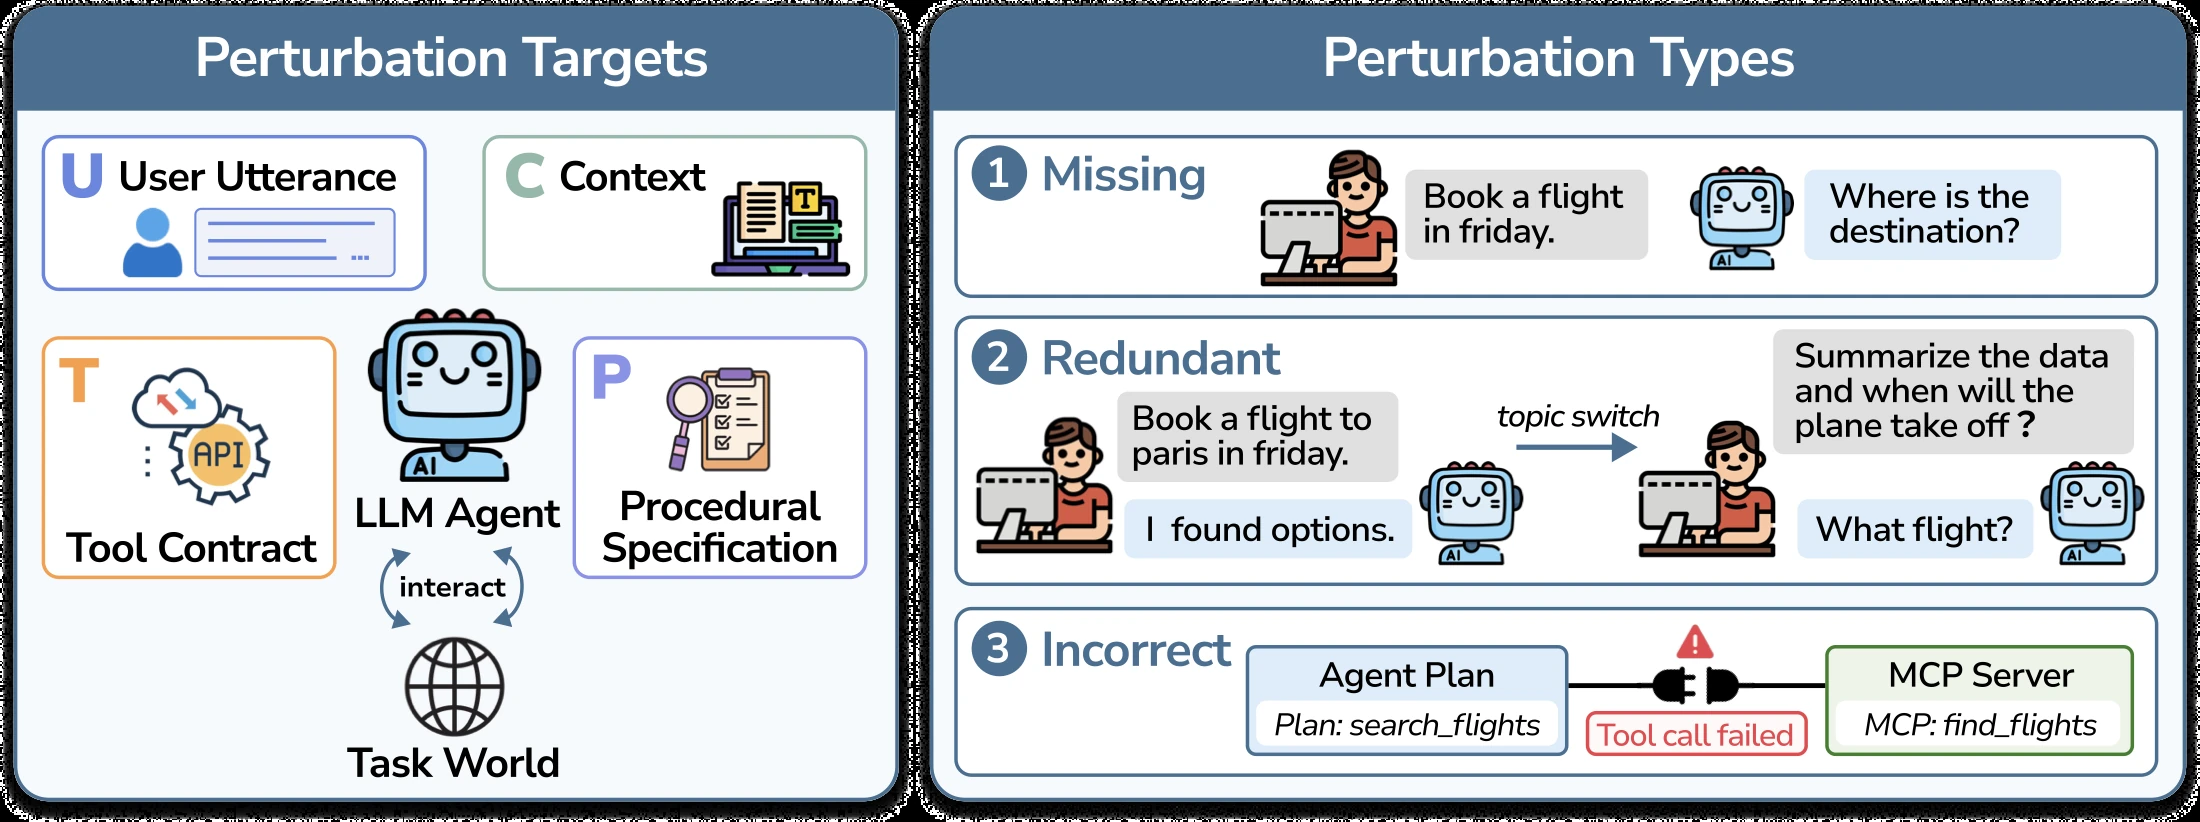
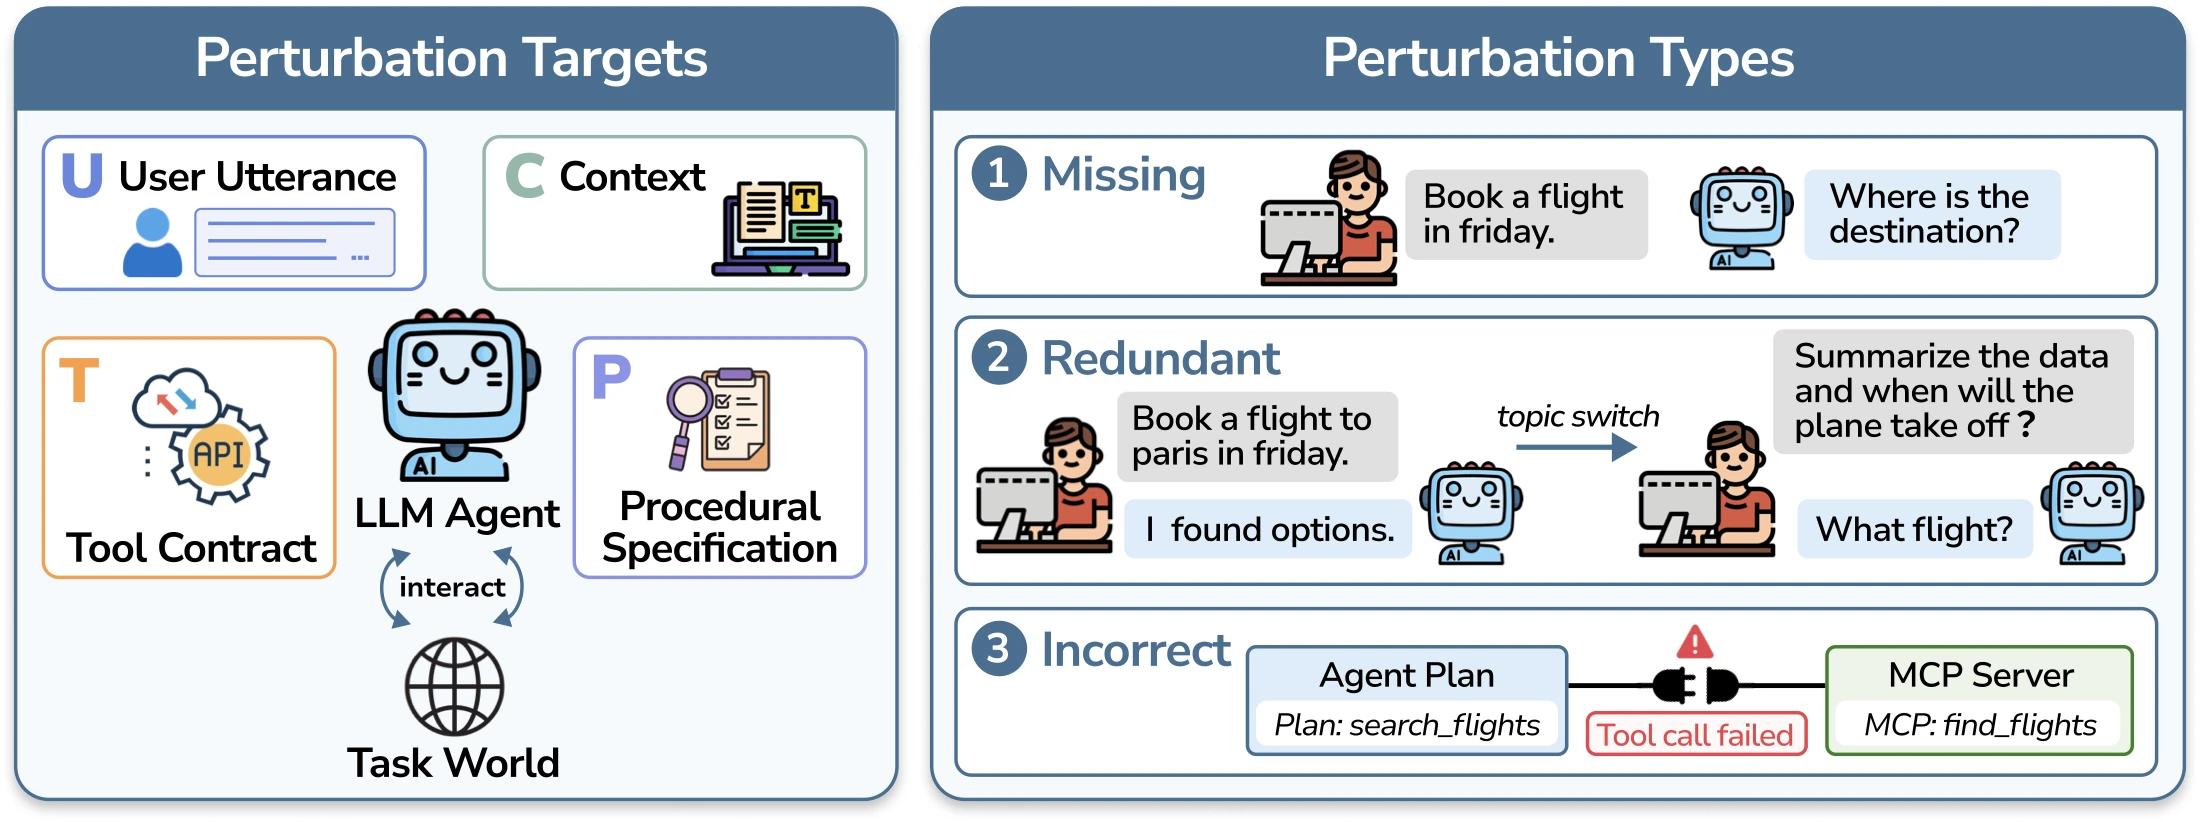
Use original figures for agentic papers

Changed region(s): [[0.0, 0.0, 1.0, 1.0]]

diff --git a/_pages/about.md b/_pages/about.md
@@ -615,8 +615,8 @@ My work has been published at venues including **NeurIPS 2026**, **ICML 2026** (
 
   <article class="publication-card">
     <figure class="publication-card__media">
-      <img src="{{ '/static/publication-figures/bridging-agentic.webp' | relative_url }}" alt="Evaluation pipeline connecting foundational capability profiles with agentic operations and deployment gaps" loading="lazy">
-      <figcaption>Study design. Foundational capability profiles are mapped to controlled agentic operations, deployment gaps, and long-horizon validation.</figcaption>
+      <img src="{{ '/static/publication-figures/bridging-agentic.webp' | relative_url }}" alt="Framework linking foundational capability profiles, agentic operation profiles, and task outcomes" loading="lazy">
+      <figcaption>Framework overview. Foundational capability profiles are linked to agentic operation profiles and task outcomes.</figcaption>
     </figure>
     <div class="publication-card__body">
       <div class="publication-card__tags">
@@ -625,7 +625,7 @@ My work has been published at venues including **NeurIPS 2026**, **ICML 2026** (
       </div>
       <h3>Bridging Foundational and Agentic Capabilities of LLMs</h3>
       <p class="publication-card__authors">Wei Guo, <strong>Yuanjian Xu</strong>, et al.</p>
-      <p class="publication-card__summary">We profile foundational capabilities and controlled agentic operations separately, then measure where models fail to translate static capabilities into reliable long-horizon behavior.</p>
+      <p class="publication-card__summary">We connect benchmark-derived foundational profiles with trajectory-derived operation profiles, exposing capability realization gaps and improving prediction of agent task outcomes.</p>
     </div>
   </article>
 </div>
